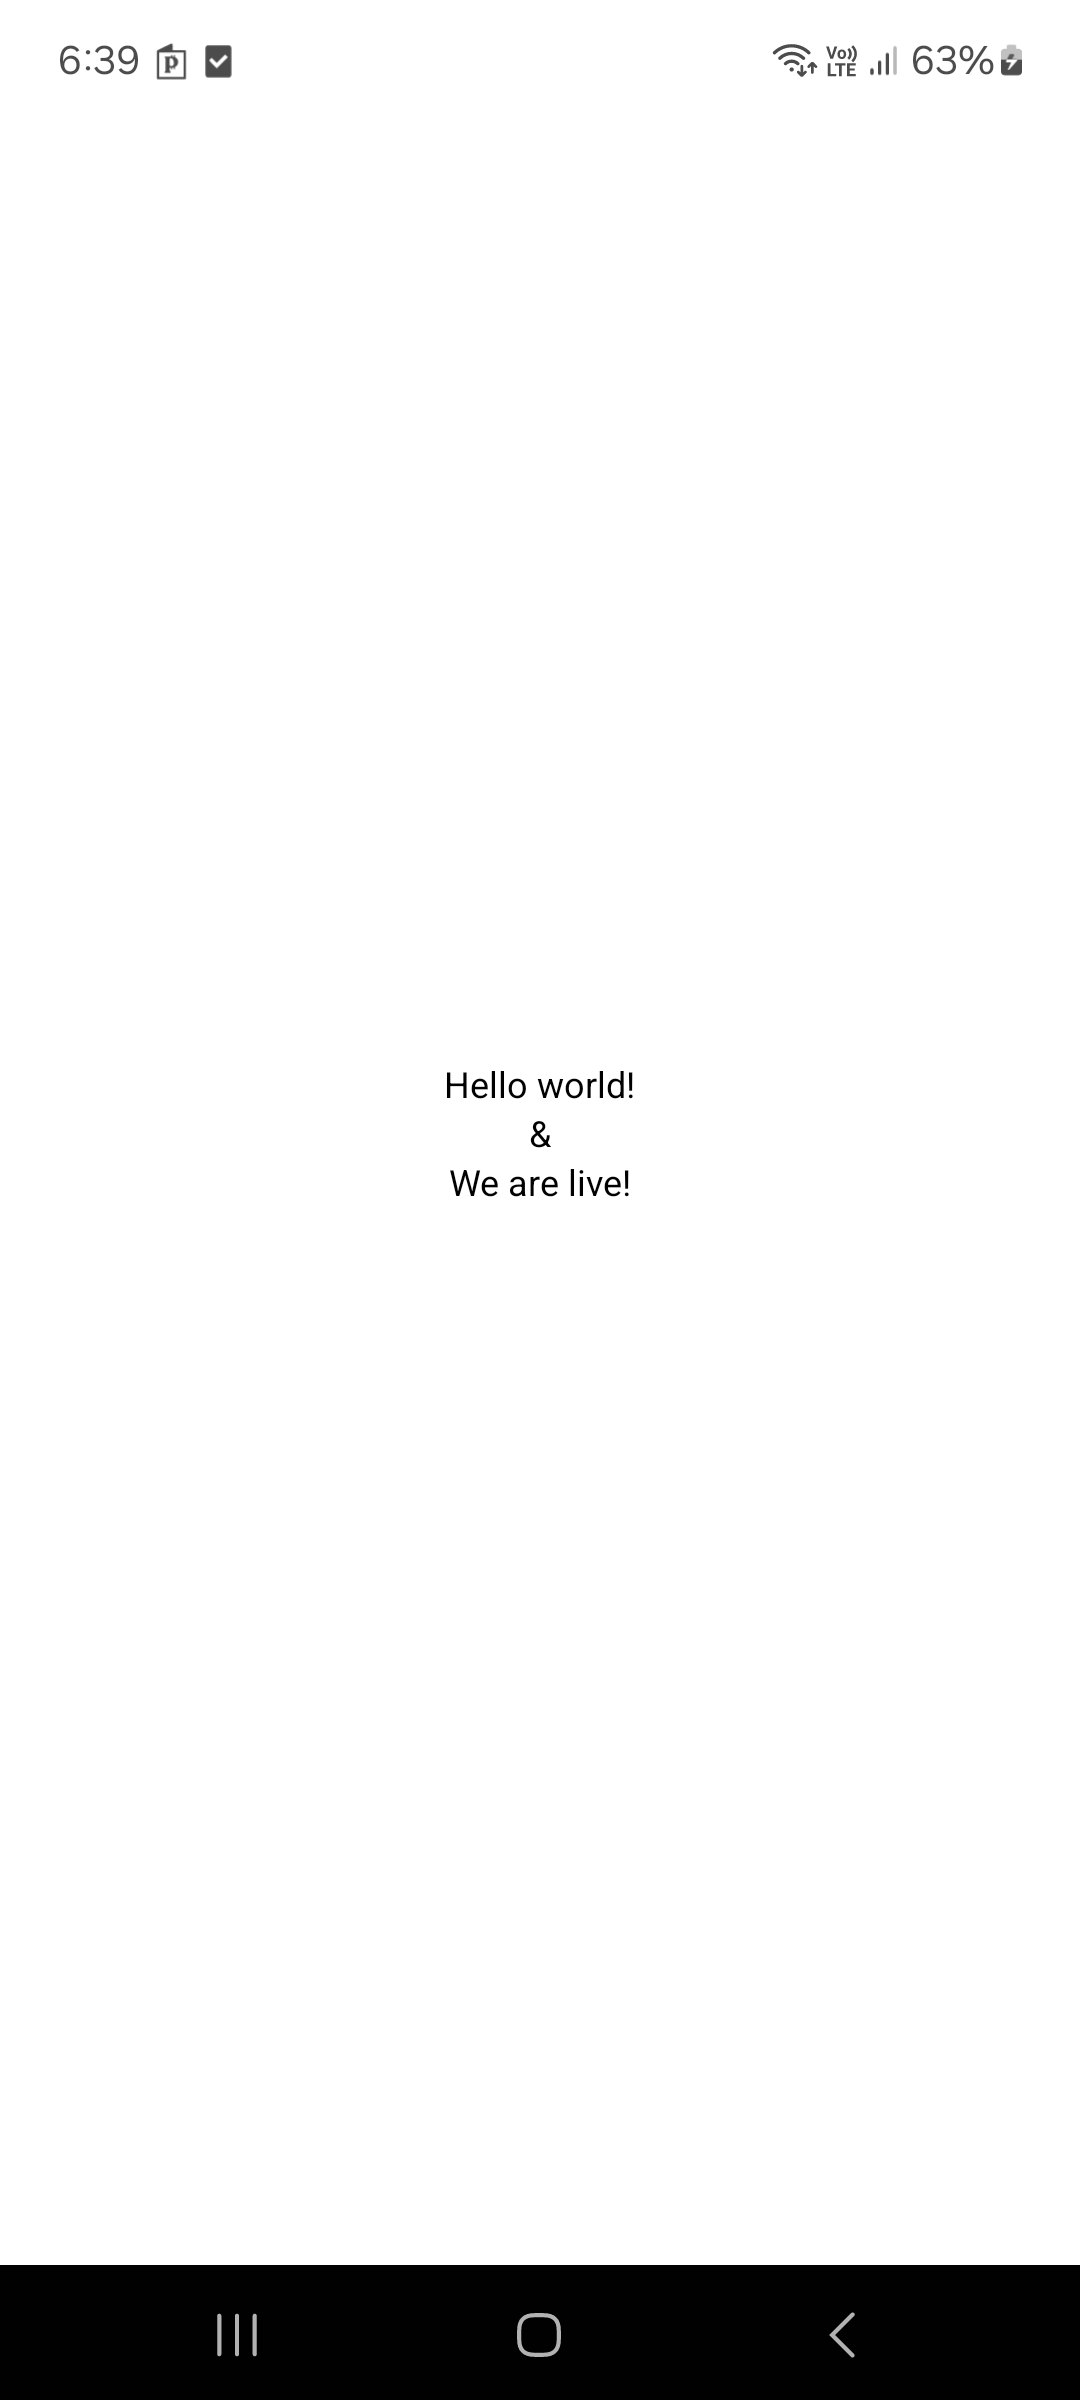
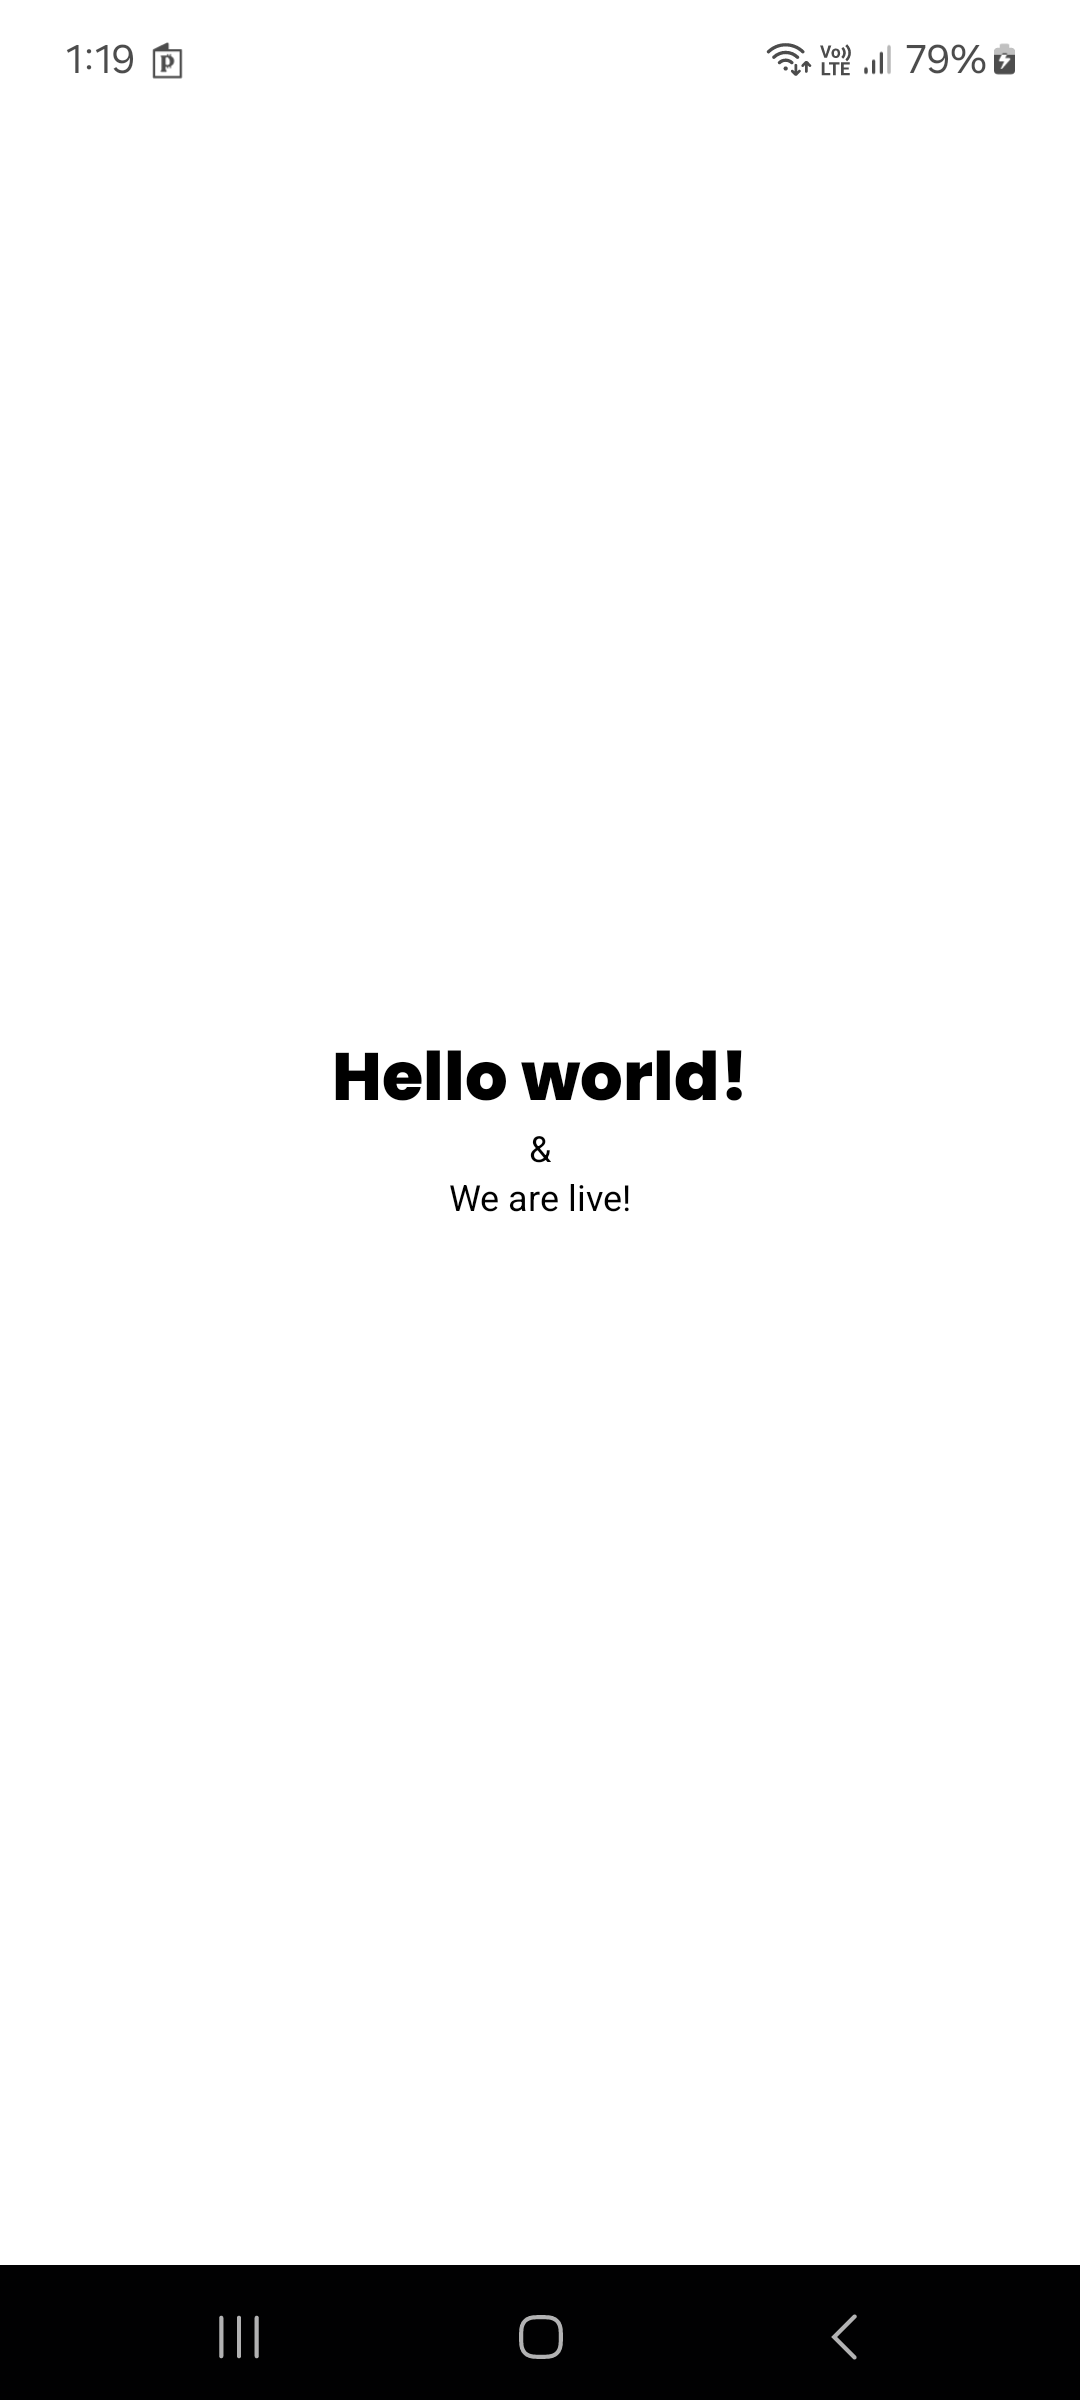
docs [ readme ] : Update Readme/Documentation

diff --git a/app/index.jsx b/app/index.jsx
@@ -4,7 +4,7 @@ import { Text, View } from 'react-native';
 export default function App() {
     return (
         <View className="flex-1 items-center justify-center bg-white">
-            <Text className="text-3xl">Hello world! </Text>
+            <Text className="text-3xl font-pextrabold">Hello world!</Text>
             <Text>&</Text>
             <Text>We are live!</Text>
             <StatusBar style="auto" />

diff --git a/README.md b/README.md
@@ -1,115 +1,80 @@
 <h1 align="center" >  VidBox App <br> ♨ [ ʀᴇᴀᴄᴛ ɴᴀᴛɪᴠᴇ ᴇxᴘᴏ ᴘʀᴏᴊᴇᴄᴛ ] ♨</h1>
 
-## Stage 01: Init Expo Project  
-**Log: January 11, 2025**
 
-This stage involves setting up an Expo project, configuring basic settings, and preparing for development.
+## Stage 02: Project Setup  
+**Log: January 12, 2025**
+
+In this stage, the focus is on setting up the project structure, integrating NativeWind for styling, and preparing the app for further development.
 
 ---
 
 ### Step-by-Step Process  
 
-### 1. Create a New Project Folder  
-- Created a new folder with a meaningful name for the project.  
-- Opened the folder in **Visual Studio Code** (VS Code).  
-- Launched the integrated terminal in VS Code to initialize the project.
+### 1. Create `index.jsx` in the `app` Folder  
+- Created a new file named `index.jsx` inside the `app` folder. This will serve as the home page or screen for the app.  
 
----
+- Moved all the code from `_layout.jsx` to `index.jsx` and cleared the content of `_layout.jsx`
 
-### 2. Initialize a New Expo Project  
-- Initialized a new Expo project with the React template using the following command:  
-```bash
-npx create-expo-app ./ --template blank
-```
+- Installed the **ES7+ React/Redux/React-Native snippets** plugin in the code editor to speed up development.  
 
+- Typed `rnfes` to generate a sample component template.  
 
-- Once completed, the following message appeared:  
-  ✅ Your project is ready!
-
-  **To run the project, use one of these commands:**  
-  - npm run android  
-  - npm run ios (Requires macOS. Alternatively, use the Expo Go app for iOS development without a Mac.)  
-  - npm run web  
-
-- Installed the necessary dependencies by running:  
-```bash
-npx expo install expo-router expo-status-bar expo-font expo-constants expo-linking react-native-gesture-handler react-native-screens react-native-safe-area-context
-```
-
----
-
-### 3. Update `package.json`  
-Made the following changes in the `package.json` file:
-
-- **Added:**
-```json
-"main": "expo-router/entry"
-```
-
-- **Updated Fields:**  
-
-  - **`name`**:  
-    A human-readable name for the app, visible to users on the home screen or app store listings.  
-    **Example:** `"name": "My Awesome App"`
-
-  - **`slug`**:  
-    A URL-friendly identifier for the app, commonly used by Expo services. It must be all lowercase, contain no spaces, and use hyphens (-) instead of spaces.  
-    **Example:** `"slug": "my-awesome-app"`
-
-  - **`scheme`**:  
-    A custom URL scheme for deep linking, allowing your app to handle specific links. Typically matches the `slug` or a simplified variation of it.  
-    **Example:** `"scheme": "myawesomeapp"`
-
----
-
-### 4. Set Up the Project Structure  
-- Created a new folder named `app`  
-- Created a new file named `_layout.jsx` inside `app` 
-- Moved the contents of `App.js` to a new file: `app/_layout.jsx`  
-- Deleted the original `App.js` file
-
----
-
-### 5. Start the Project  
-- Ran the project with the following command: 
-```bash 
-npx expo start -c
-```
-
-- Downloaded the **Expo Go** app on a mobile device.  
-- Scanned the QR code (ensured the mobile device and computer were on the same network).  
-- The app opened in the Expo Go app on the device.
-
----
-
-### 6. Modify the Code for Live Updates  
-- Updated the content of `app/_layout.jsx`:
+- Updated the component and renamed it to `RootLayout`. Final code:  
 ```js
-<Text>We are live!</Text>
-```
+import { StyleSheet, Text, View } from 'react-native'
+import React from 'react'
 
-- The changes reflected immediately on the connected device, thanks to Expo's live reloading feature.
+const RootLayout = () => {
+  return (
+    <View>
+      <Text>RootLayout</Text>
+    </View>
+  )
+}
+
+export default RootLayout
+
+const styles = StyleSheet.create({})
+```
 
 ---
 
-### 7. Personalize the App  
-- Added some custom elements to the app, such as:
+### 2. Add NativeWind v4 to the Project  
+- Integrated **NativeWind v4** for utility-first styling.  
+
+- Followed the [NativeWind v4 Expo Router guide](https://www.nativewind.dev/getting-started/expo-router) for installation and setup.  
+
+- If `babel.config.js` does not exist in the project:  
+  - Ran the following command:  
+    ```
+    npx expo customize  
+    ```
+
+  - This command prompted options to generate different configuration files. Selected `babel.config.js` from the list.
+
+---
+
+### 3. Add Custom Styles and Fonts  
+- Incorporated custom styling and fonts as desired. Example:  
 ```js
-  <Text>Hello world!</Text>
-  <Text>&</Text>
-  <Text>We are live!</Text>
+<Text className="text-3xl font-extrabold">Hello world!</Text>
 ```
-<br/>
+
+---
+
+### 4. Start the Project  
+- Ran the project with the following command:  
+```
+npx expo start -c  
+```
+
+---
 
 <p align="center">
 <img src="./_archive/screenshot_01.png" width=200>
 </p>
 
 <br/>
-
-### 🎉 Congratulations!  
-You've successfully set up and run your first React Native Expo app! 🚀
-
 ---
 <br/>
 
